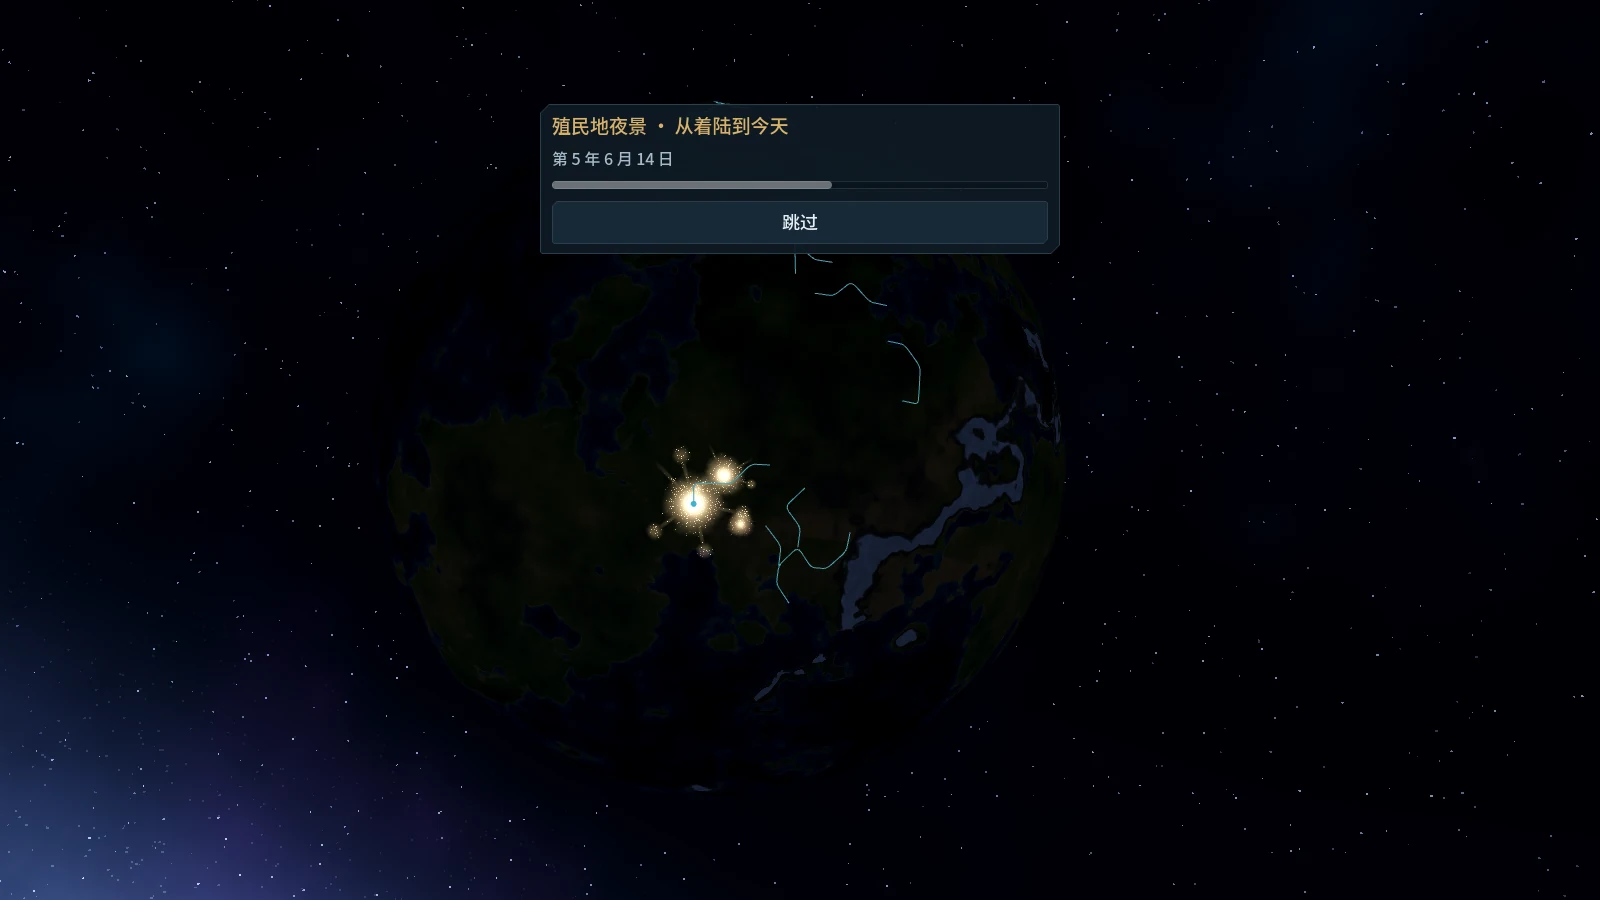
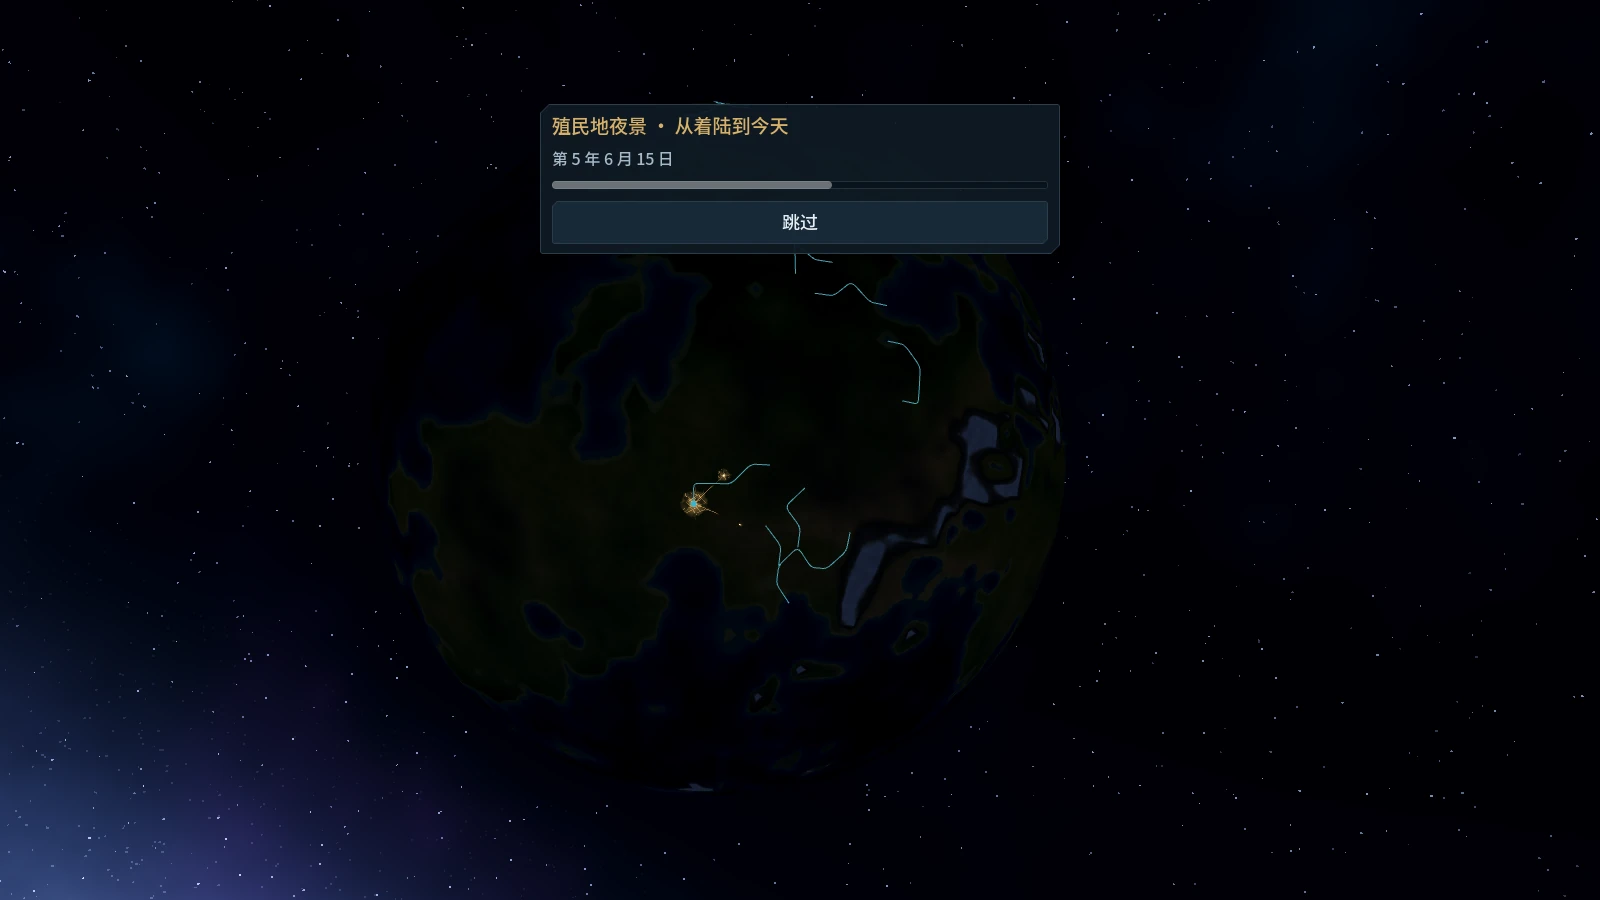
v17: 1.11 G: captures beside the sheet, decisions, progress; version 1.11.1 preview
The user's sheet (lossless WebP: PNG goes through LFS), the five stages coastal
and inland at the default distance (4K and 1920x1080), the crossfade frames of
a played colony and the time-lapse frames in the new forms. DECISIONS for the
forms, sizes, remote points, road strings and crossfade; PROGRESS marks G done
and records that the C-F gate run died at 11:36 with the container.

Claude-Session: https://claude.ai/code/session_019D75Q7T5AUJitSrCeeiHYA

Changed region(s): [[0.4062, 0.4978, 0.4688, 0.6222], [0.5938, 0.4667, 0.6562, 0.5911], [0.5312, 0.5911, 0.5938, 0.6222]]

diff --git a/docs/v17/PROGRESS.md b/docs/v17/PROGRESS.md
@@ -15,7 +15,7 @@ container. Human playtests NOT_RUN.
 | D. Annual ship and ratchet report | the company ship on each landing anniversary (delayed by supply_delay), its light coming down over the capital on globe, flat map and district, the days to it in the HUD; the report (矿业, 农业) with 如实 / 报达标 / 报超额, rewards and misses, the ratchet, the gap filled by later production, audit stories weighted and opening at their exposure scene; 矿权抵押's ore tribute; amendments on the ship (five stories, deadline shift, company share, next year's targets, clauses); `annual_report.gd`, `annual_report_page.gd`; targets calibrated with `tests/balance/calibrate_annual.gd`; bots report honestly, the new `inflating` bot claims every line | **done** (code `c49eba5`); suite `v111_annual` (76 checks); measured in H and J2 (the annual report row); its own gate has not run (no tag yet) |
 | E. Annex VII and three endings | Annex VII drawn from the seed, sealed on the contract page, opened by a letter when stage four is accepted; one answer (照办 / 周旋 / 公开) sets the lean and moves distrust and 民心; four variants with their great work, linked stories and rule (`annex.gd`); endings after the award: 收购 from the career fund and 自治 by 民心, people and rating (or a disclosed annex) end the company's share and process; the loyal ending at the award; the takeover recorded; the settlement statement on every ending (`endings.gd`, `settlement_page.gd`) | **done** (code `bdb5f5f`); suite `v111_endings` (56 checks); the time-lapse at every ending (G); measured in H and J2 (the Annex VII and endings row); its own gate has not run (no tag yet) |
 | F. Weather that matters | weather systems from seed and day (`weather.gd`, `geography.json` `weather`), strikes opening their stories, warnings and paid preparation, the weather station, 天气预报 and 防灾工程 (on the weather's losses only), force majeure (clause, claim, deadline and report waiver), the weather's losses on each strike and in `audit()`, the weather page (from the storm notice and the force majeure clause), storms on the globe drawn from state with rings that stay when clouds are off, a richer cloud shell; worlds from before the climate grid (1.6, 1.7 saves) keep cosmetic weather | **done** (code `496f5c0`, visuals `eeaac07`); suite `v111_weather` (45 checks); measured in H and J2 (the weather row); frame times wait for the Windows check; its own gate has not run (no tag yet) |
-| G. Lights at two scales | the quarterly light record in the state (`light_record.gd`: place, stage, people, facilities, coast, roads); the night time-lapse at every ending and from the career page, drawn with the 1.9 town forms until the sheet arrives (`timelapse.gd`, `timelapse_view.gd`); the flat map only from the ground panel (founding, prospecting), back to the globe after a founding | **partial** (local tag `v111-G` on `03a03dd`; gate run at `cdf587a` with H): suite `v111_lights` (24 checks), captures `docs/v17/lights/`; the planet-scale forms in ordinary play, the crossfade and the five-stage captures wait for the user's concept sheet (asked 2026-11-23) |
+| G. Lights at two scales | the quarterly light record in the state (`light_record.gd`: place, stage, people, facilities, coast, roads); the night time-lapse at every ending and from the career page (`timelapse.gd`, `timelapse_view.gd`); the flat map only from the ground panel (founding, prospecting), back to the globe after a founding; with the user's sheet 沿海与内陆的灯光形态 (2026-11-24): the planet-scale forms in ordinary play and in the time-lapse (`town_forms.gd`, the globe shader: a lit street web, a white-hot core, coast cuts, growth along the player's roads, sizes in the sheet's proportions), remote mines and harbours as points, roads as faint strings, the crossfade with the per-plot lights by camera distance | **done** (the record, time-lapse and flat map: local tag `v111-G` on `03a03dd`, gate at `cdf587a` with H; the forms: this commit, below): suite `v111_lights` (34 checks); screenshots viewed: `docs/v17/lights/forms_vs_sheet.webp` (five stages, coastal and inland, default distance, 4K; `_1080` the same at 1920 x 1080), `forms_crossfade.webp` and `forms_globe.webp` (a played colony; the light over the capital 0.0185 with plots, 0.0115 with forms, never more between), `timelapse_year*.webp`; ships as the 1.11.1 preview |
 | H. Technologies merged | technologies that only add effects merged within category and tier (`tools/tech_merge.py`): 136 to 85, 79 researchable, every effect total kept; merged costs x0.8; saves converted on every load path; events and bots read old ids through `merged`; the contract's technology counts become tier milestones (`techs_tier_<n>`), calibrated (`calibrate_techs.gd`, nine balanced runs a tree): stages two to four ask for 1, 5 and 13 technologies at tier 2 or above, stage five for 5 at tier 3 or above | **done, provisional** (local tag `v111-H` on `cdf587a`): gate H, suites 63 of 64 (`v19_payback` the known miss, met in J) and quick harness `1.11-H` (90 runs, 0 audit errors; research-first now awarded on day 2,068, under the band: DECISIONS.md); research days per direction kept (DECISIONS.md); the user is asked whether 85 (the plan's rules, requirements re-pointed) or 55-65 (merging technologies that unlock buildings) is wanted; suite `v111_techs` (20 checks) |
 | I. The news line | one line at the bottom edge from `news.json` (weather, stages, reports and the company share index, town sizes, echoes, prices, Annex VII rumours, flavour), interface only, quiet on a waiting decision, holds while an event panel is open, a settings toggle (`news_line.gd`) | **done** (local tag `v111-I` on `3fd7f05`; gate run at `cdf587a` with H): suite `v111_news` (23 checks); `v17_speed` passes with it in the game; captures `docs/v17/weather/` |
 | J. Rebalance and release | one rebalance, data only: the smelter 8,500 to 6,500 (`8ecc070`); tried and taken back with their evidence (DECISIONS.md): ore's price, dearer ore mines, the later mine bonuses and the 0.25-0.50 unemployment band; the harness rows for what holds growth from 200 to 600 people and for pace, `--set` for probes, the payback suite and the harness; the Windows build and package (`ColonyCharter-1.11.0-Windows-x64.zip`, SHA-256 `CEA06CCF…8DAC5A`); the run kit for 1.11.0 and its cases pre-checked on the shipped PCK (`docs/v17/kit_1.11`, 108 of 108 checks in seven cases); CHANGELOG, PLAYTEST, BALANCE | **done** (local tags `v111-J` and `v1.11.0` on `708ff33`, the commit packaged; code and data as `8ecc070`): suites 63 of 64 (`v19_payback`: the ore mines in year 6); harness `1.11-J4`, 17 targets met, 6 missed (below); the Windows checks and the full harness wait for the user's PC |
@@ -37,7 +37,9 @@ extras at 37 minutes). From 2026-11-24 02:56 the chain runs with `gate3.sh`: 29 
 cases, three at a time beside the extras, each with its own checkpoint, so a restart costs minutes,
 and a rerun resumes. At 03:17 the order changed (DECISIONS.md): H first, the J baseline, then the J
 candidate, then C, D, E and F; H's suites are the main-tree run on the same content, 63 of 64
-(`v19_payback` the known miss). Autogroup scheduling had given the gate a sixth of the CPU; it is off.
+(`v19_payback` the known miss). Autogroup scheduling had given the gate a sixth of the CPU; it is off. The run of C, D, E and F
+from 11:31 on 2026-11-24 **died** at 11:36 when the container was reclaimed (`gates3.log`, no chunk
+finished); the machine came back with 4 cores, and the four gates wait to be rerun.
 Tags stay local: the session's proxy refuses tag pushes; the tag-to-commit map is in this table.
 
 **Release 1.11.0 (2026-11-24).** `ColonyCharter-1.11.0-Windows-x64.zip` (55,929,583 bytes, SHA-256
@@ -58,9 +60,9 @@ times and every human playtest (NOT_RUN); `docs/v17/WINDOWS_RUN_KIT.md` and `PLA
   141 days (target 120);
 - `v19_payback`: the ore mines' year-6 payback, 54 and 91 days against 70-150 and 100-220, since
   the merge;
-- G is partial (the light concept sheet); H is provisional (85 technologies, the user's choice of
-  85, 125 or 55-65 is open); C, D, E and F have no per-phase gate of their own (their code is
-  measured at H and J4).
+- G was partial at release (the light concept sheet came after it; the forms are done since, in
+  the 1.11.1 preview); H is provisional (85 technologies, the user's choice of 85, 125 or 55-65 is
+  open); C, D, E and F have no per-phase gate of their own (their code is measured at H and J4).
 
 ---
 

diff --git a/docs/v17/DECISIONS.md b/docs/v17/DECISIONS.md
@@ -1365,6 +1365,46 @@ factories, so the game's cycle and the payback bands stay as they are.
 - The flat map leaves the main navigation (two views: globe and district). It opens from the panel
   of picked ground, where founding and prospecting happen (在平铺地图上选址与勘探 / 回到球面总览),
   and a founding made there returns to the globe. `navigate("flat")` stays for tests and captures.
+- G with the sheet (sent 2026-11-24): the sheet is kept as `docs/v17/lights/concept_light_forms.webp`,
+  lossless and pixel-identical to what was sent · the plan's `.png`: PNG files go through Git LFS in
+  this repository and the session cannot reach LFS, so a PNG could not be pushed.
+- The forms are drawn by the globe shader from a few numbers per town (`world/town_forms.gd`,
+  `shaders.gd` `TOWN_LIGHTS_GLSL`): a web of lit streets (block sides every 0.16 degrees, main
+  streets every four blocks, gently warped, each district on a heading of its own, each side lit by
+  chance as the density falls from the centre), dark patches, a ragged edge, a small white-hot core
+  and thin roads leading out. A block is the same size in every town; a town grows by adding blocks
+  · the sheet's pixels as textures, which would not follow the real coast, the roads or the growth
+  between stages.
+- Sizes keep the sheet's proportions (`progression.json` `lights.stages[].radius_degrees`: 0.25,
+  0.65, 1.27, 1.98, 2.6, so 0.09 / 0.25 / 0.49 / 0.76 / 1.0 of the capital's width), the built-up
+  edge at about 0.82 of the radius; between stages a town grows with its level; a form is never
+  wider than 0.45 of the way to its nearest neighbour. At the default distance a capital is about
+  50 pixels across on 1920 x 1080 and 100 on 3840 x 2160: a city, not a point.
+- A coastal town is cut by the globe's own land mask; its way to the sea (the world's 2.5-degree
+  grid) puts the core by the water, stretches the built-up area inland and turns the town's own
+  roads inland. An inland town spreads outwards. The roads the player built are bright arms out of
+  town; the town's own arms (1 + 1.5 x stage) are thin and broken.
+- Remote points only for the facilities whose role is in `lights.forms.remote_roles` (mines,
+  harbours, seabed platforms, weather stations) and that stand beyond 0.8 of the form's radius · every
+  building but homes, which in the first played capture drew the district's plot grid as a regular
+  field of dots round the capital.
+- A finished road's string is a light every 0.06 degrees (under half a texel of the 2048 x 1024 far
+  texture) at 0.05 · every 0.25 degrees at 0.16, which drew a string of beads.
+- Crossfade: the per-plot lights alone up to camera distance 7.6, the forms alone from 9.4 (so the
+  default 10.3 and the farthest 15.8 show forms), smoothstep between, the weights adding to one.
+  Over the capital of a played colony (balanced bot, seed 260129, day 1,500, 442 people) the light
+  falls steadily from 0.0185 to 0.0115 and is never above either end · matching the two totals:
+  the plots carry the district's real spread, the forms are the far view.
+- The flat map keeps the per-plot lights (it is now a tool for founding and prospecting; no parity
+  work). The time-lapse draws the same forms from the record (its own coast and roads); the 1.9
+  forms are gone from it.
+- Captures: `tests/art/capture_light_forms.gd` (STAGED: one town at each stage's threshold,
+  coastal and inland, the camera straight down at local midnight at the default distance; the
+  crossfade from ordinary play) and `tools/light_forms_sheet.py` (laid out beside the sheet). The
+  coastal place is the coastal region with the straightest shore on the atlas, the inland one the
+  inland region nearest the equator with no water within 4.5 degrees.
+- The forms come after the 1.11.0 package: they ship as a 1.11.1 preview (same saves, schema 7, the
+  same `v111` folder), and the next release takes them with the user's choice of tree (H).
 - The phase gates run in small pieces after the machine restarted twice under them: 29 chunks of
   three cases (`--chunk=k/29`, which every gate commit's harness reads), three at a time beside
   the extras, each with its own checkpoint, at lower priority than interactive work; a rerun of

diff --git a/CHANGELOG.md b/CHANGELOG.md
@@ -1,5 +1,16 @@
 # 更新记录
 
+## 1.11.1（预览）：夜里的城市
+
+照灯光原画「沿海与内陆的灯光形态」做的城市夜景。
+
+- 在球面上从默认距离往外看，每座城镇在夜里是一片城市灯光：一张亮着的街道网，中间一个白热的中心，越往外越稀，边缘参差。着陆点只有几点火光；首批住区、小镇、区域中心、星球首府一级比一级大，比例和原画的五个阶段一样，两个阶段之间城镇随人口慢慢长大。
+- 沿海的城镇被真实的海岸线切开，中心靠水，往内陆铺开；内陆的城镇向四周铺开。你修的路是从城里伸出去的亮线。
+- 离城镇远的矿场、码头、海底采矿平台和气象站各是一个小光点；修好的路是一条淡淡的光线。
+- 拉近镜头时，城市的形状渐渐换成逐块建筑的灯光，两者不会叠在一起变亮。
+- 结局的夜景回放也用这些形状。
+- 存档和 1.11.0 相同。
+
 ## 1.11.0：承包人
 
 你是殖民公司的外包承包人，和公司签的是一份对赌协议。公司是发包方、验收方，也是裁判；殖民者是和你一起过日子的人。
